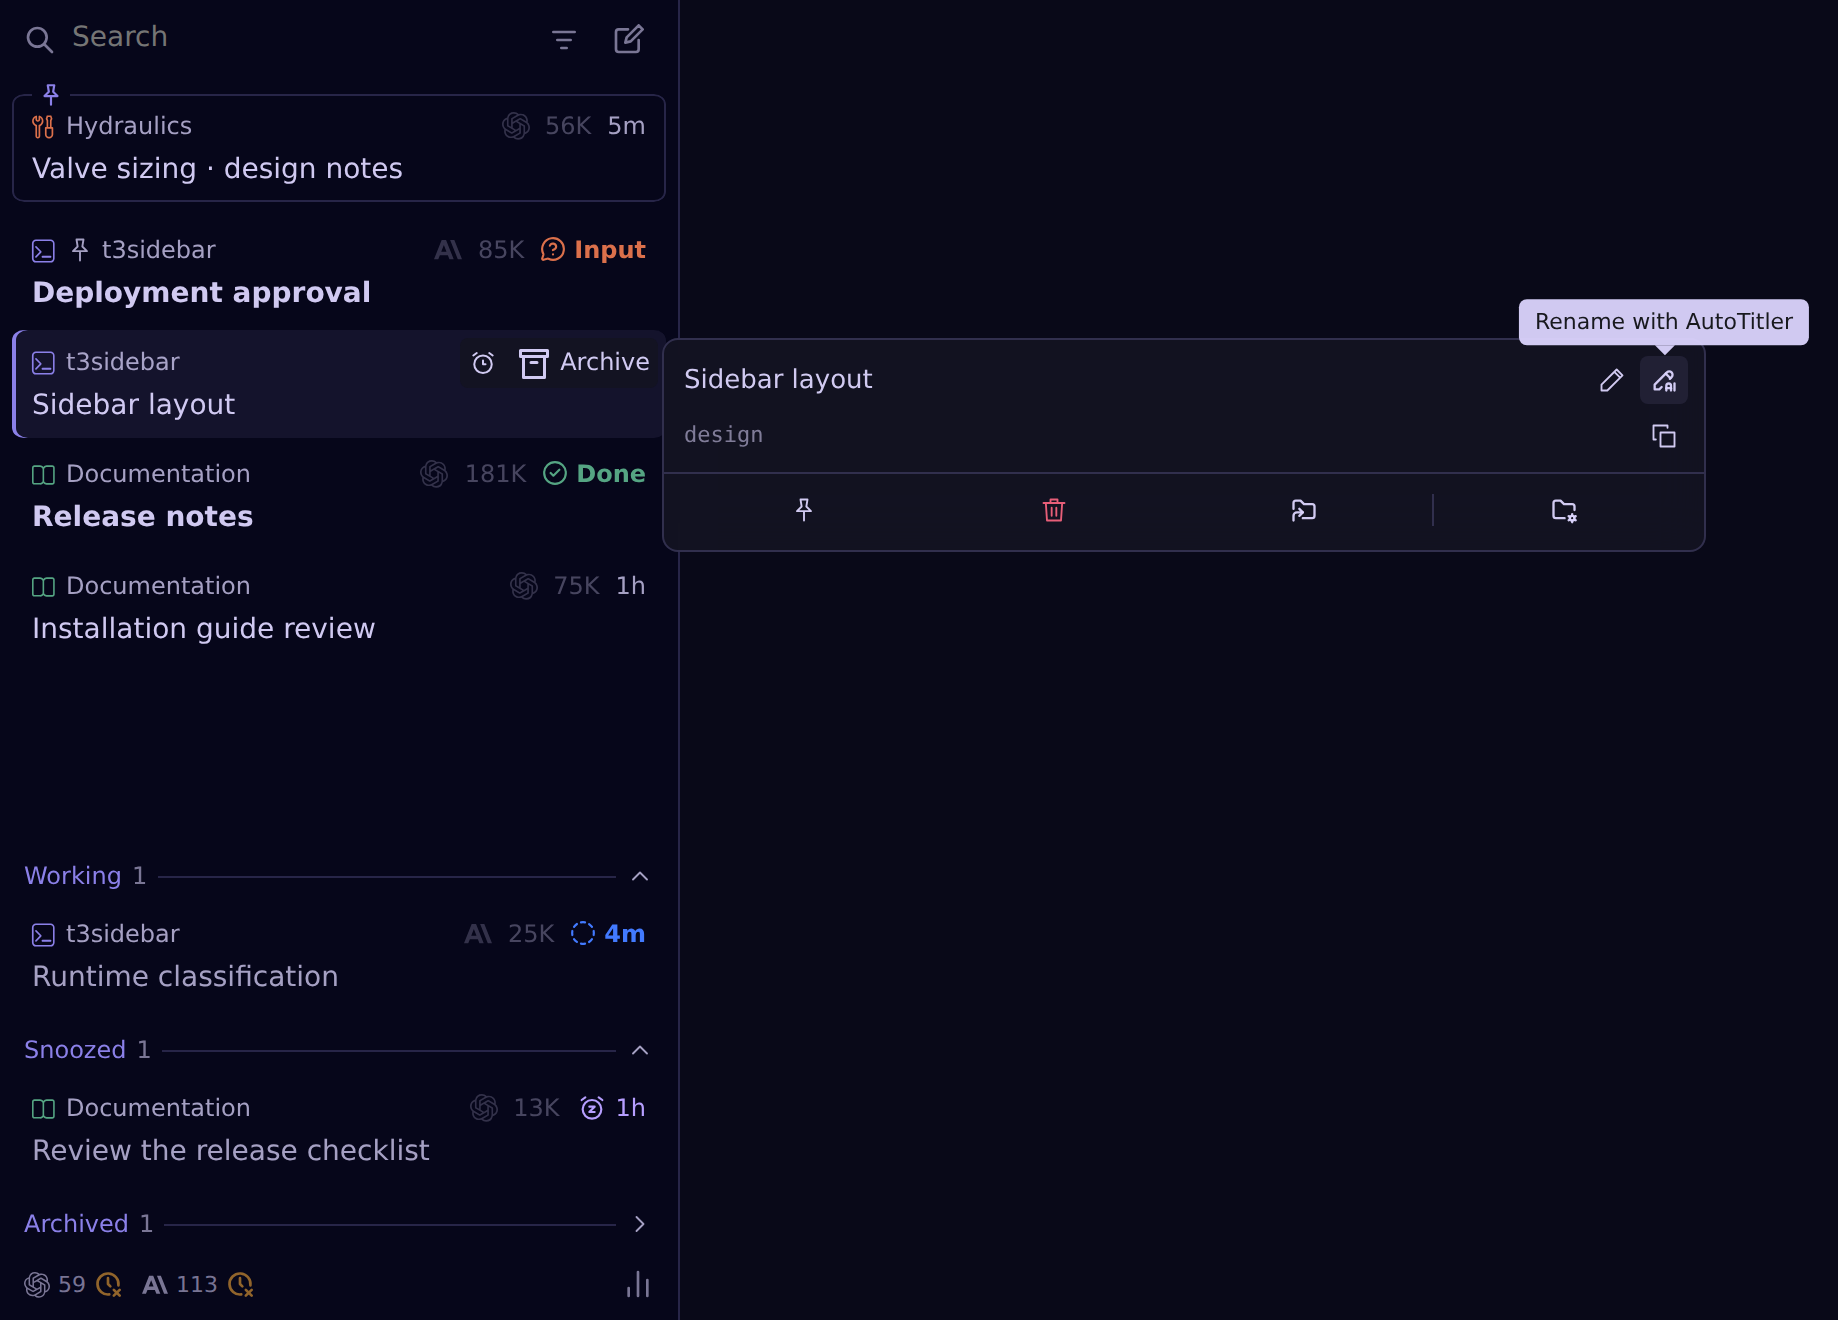
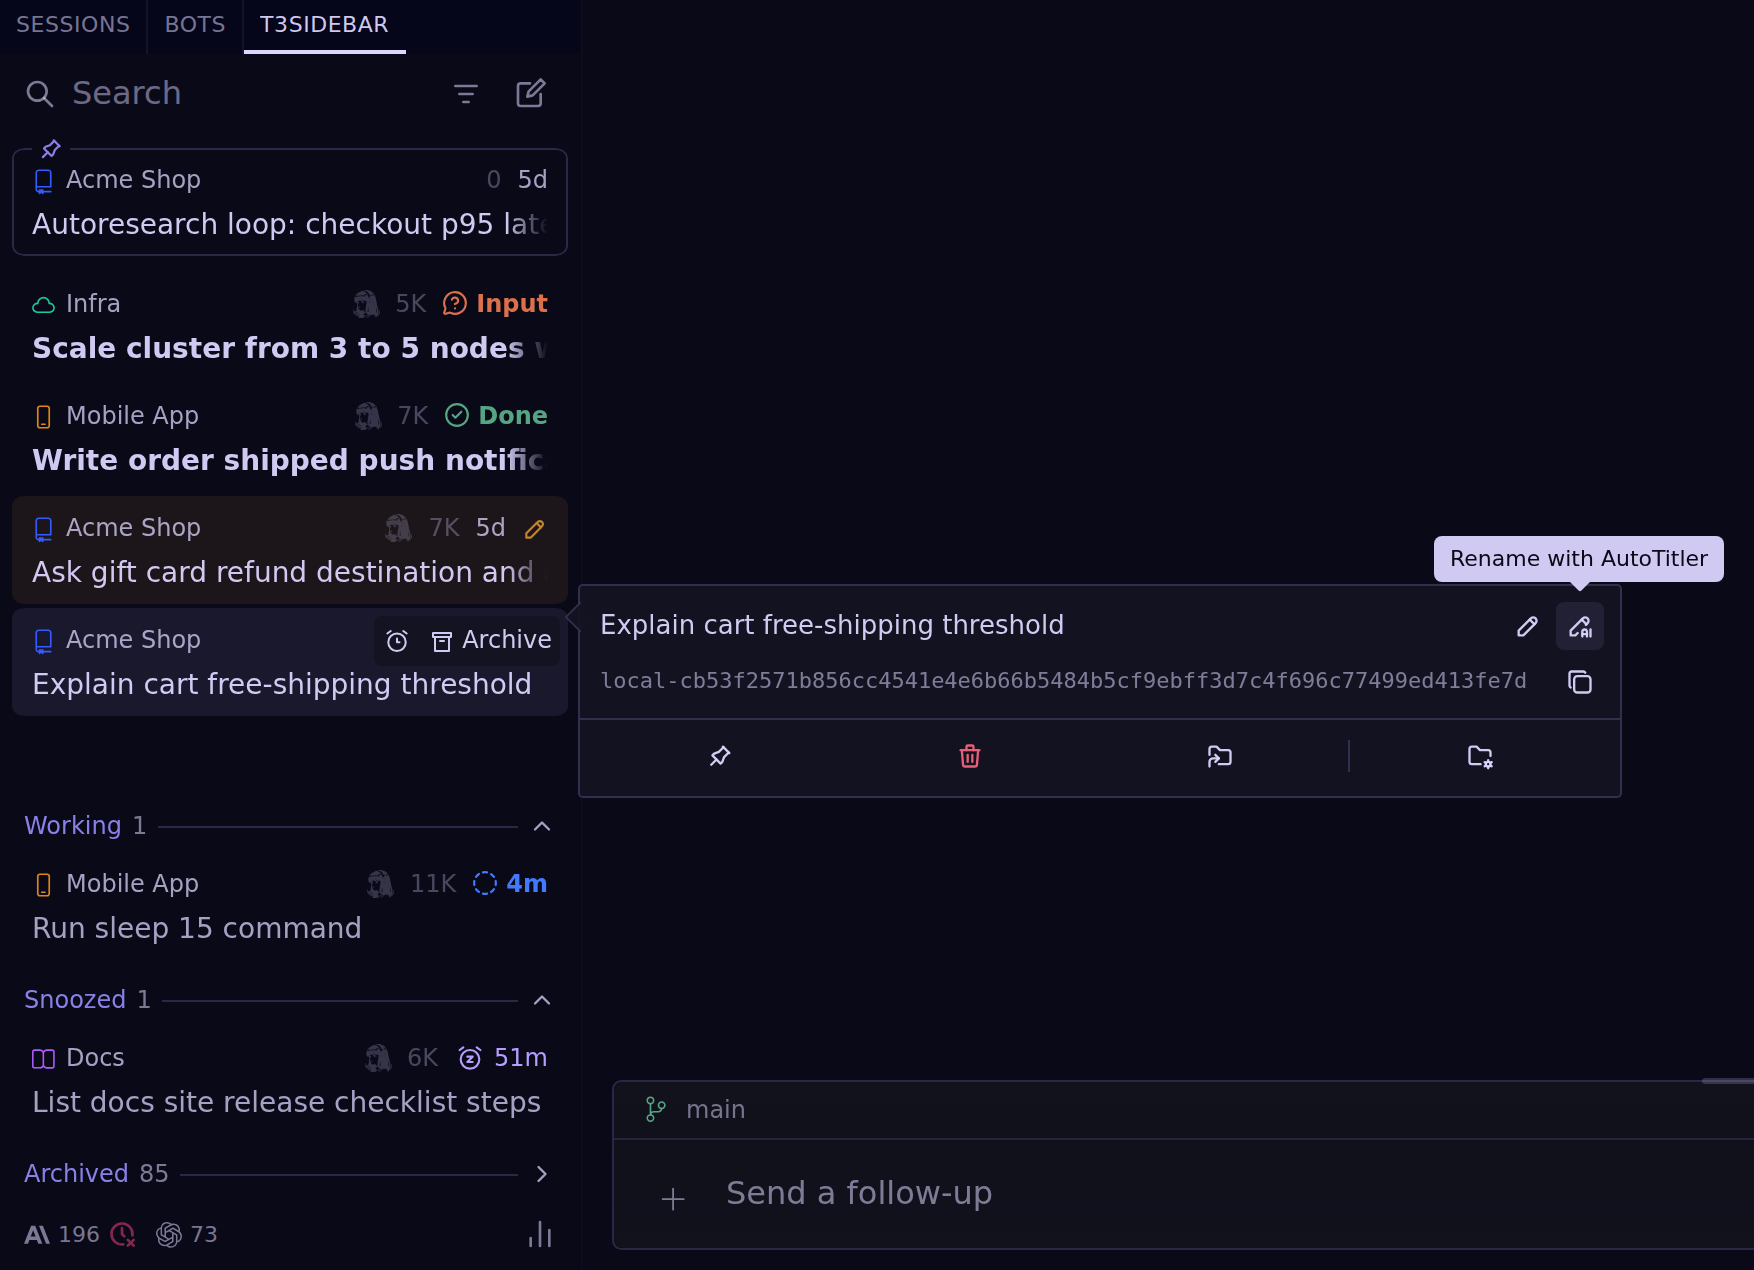
docs: capture every README screenshot in the real Webapp
The sample-data kit only approximated Desktop's Midnight theme, fonts and Settings page, which showed beside a live capture. Every image now comes from the test container: real turns for the draft, Done and Snoozed cards, with the states the container cannot produce on demand staged by test-only edits that sync removes.

diff --git a/README.md b/README.md
@@ -16,7 +16,7 @@
 - Cards: project, provider icon, token count including subagents.
 - Pins, snoozes and completion markers shared between Desktop clients through the backend companion.
 
-![Session sidebar: yellow draft background on Installation guide review, Input and Done badges, pinned sessions, Working, Snoozed and folded Archived shelves, Limits and Usage footer](docs/images/draft.png)
+![Session sidebar in Hermes Desktop: yellow draft background on Ask gift card refund destination, Input and Done badges, a pinned session, Working, Snoozed and folded Archived shelves, Limits and Usage footer](docs/images/draft.png)
 
 ### AutoTitler: rename now
 
@@ -56,7 +56,7 @@
 - Anthropic limit resets (such as a Fable reset): one line each under the account's bars, with its own **Use one** button; hovering it hatches what that reset would give back. It confirms with the share of the window it refills that is lost, then uses that reset as Claude Code's `/limit-reset` does.
 - Backend sampler every 5 minutes, 35 days of history, read-only: never refreshes pool tokens, clears cooldowns or redeems resets. An expired Claude Code login is the one exception: Hermes's own Claude Code resolver refreshes it.
 
-![Limits page: OpenAI Codex pool running out Sunday with reset markers and lost units, its two accounts unfolded with 5-hour and weekly bars and banked resets, Anthropic pool with units expiring unused, averaging and time-to-empty measurements](docs/images/limits.png)
+![Limits page: Anthropic pool with units expiring unused by Friday and lost units, OpenAI Codex pool running out Sunday with reset markers, its two accounts unfolded with session and weekly bars and banked resets, averaging and time-to-empty measurements](docs/images/limits.png)
 
 ### Projects
 
@@ -87,7 +87,7 @@
 - Show token counts
 - Done/Input sound: T3 Code's or one of Desktop's presets, played when a session shows Done or Input
 
-![Plugin settings page: Snooze preset time field with alarm-clock picker, Working indicator Normal or Detailed, Pinned sessions 1 or 2 lines, Show token counts switch](docs/images/settings.png)
+![Plugin settings page in Desktop's Settings, under Plugins: Snooze preset time field with alarm-clock picker, Working indicator Normal or Detailed, Pinned sessions 1 or 2 lines, Show token counts switch, Done/Input sound picker](docs/images/settings.png)
 
 ## Install
 

diff --git a/docs/development.md b/docs/development.md
@@ -18,9 +18,7 @@ npm run harness
 
 Open `http://127.0.0.1:4173`. The right-hand panel is a labeled test workspace, not an alternative chat implementation. The harness renders Codicons with Desktop's pinned `@vscode/codicons` font (unit tests keep the SVG test adapter), and gives each synthetic project its own native icon and palette color. Browser tests write screenshots to `t3-sidebar-ui-verification/` under `TMPDIR` (or the Hermes scratch directory when unset). The README's maintained screenshots live in `docs/images/`.
 
-README screenshots render the current plugin with sample sessions and a development SDK adapter, using the Midnight dark palette and native Codicon font. Usage captures use the maintainer's real usage history (per-model totals for each period, read from a Hermes `state.db` on Mon 2026-11-02 23:48 Paris, no session content), kept outside the repository and served through `control.usageHistory`; tests use the synthetic `syntheticUsageHistory`. Limits captures use the synthetic `syntheticUsageLimits` fixture. The clock is fixed on Wed 2026-11-04 15:00 Paris. They are not captures of a live Desktop connection.
-
-The settings screenshot renders the plugin's registered settings page with Hermes Desktop's own settings primitives (`ListRow`, `ToggleRow`, `Input`, `SegmentedControl`, breadcrumb and `SettingsContent`) and Tailwind build, Midnight dark, default preferences, in Chromium with an en-GB locale. The Settings left rail is omitted; it is a browser preview, not a live Desktop capture.
+README screenshots are captures of the real Webapp in a worktree's test container (see below): Midnight dark, en-GB locale, 2x (the Working shelf at 3x), with the container's invented sessions and its Usage and Limits seeds, and the settings page in Desktop's Settings dialog with default preferences. Draft, Done and Snoozed come from real turns and actions. States the container cannot produce on demand are staged for the capture only, through test-only edits of the container's plugin copy that `sync` removes: runtime fields by session title (the Input card, the running turn and the four detailed Working states), the Working shelf's past run times, and AutoTitler's availability, since AutoTitler cannot load in the image.
 
 ## Testing a change
 
